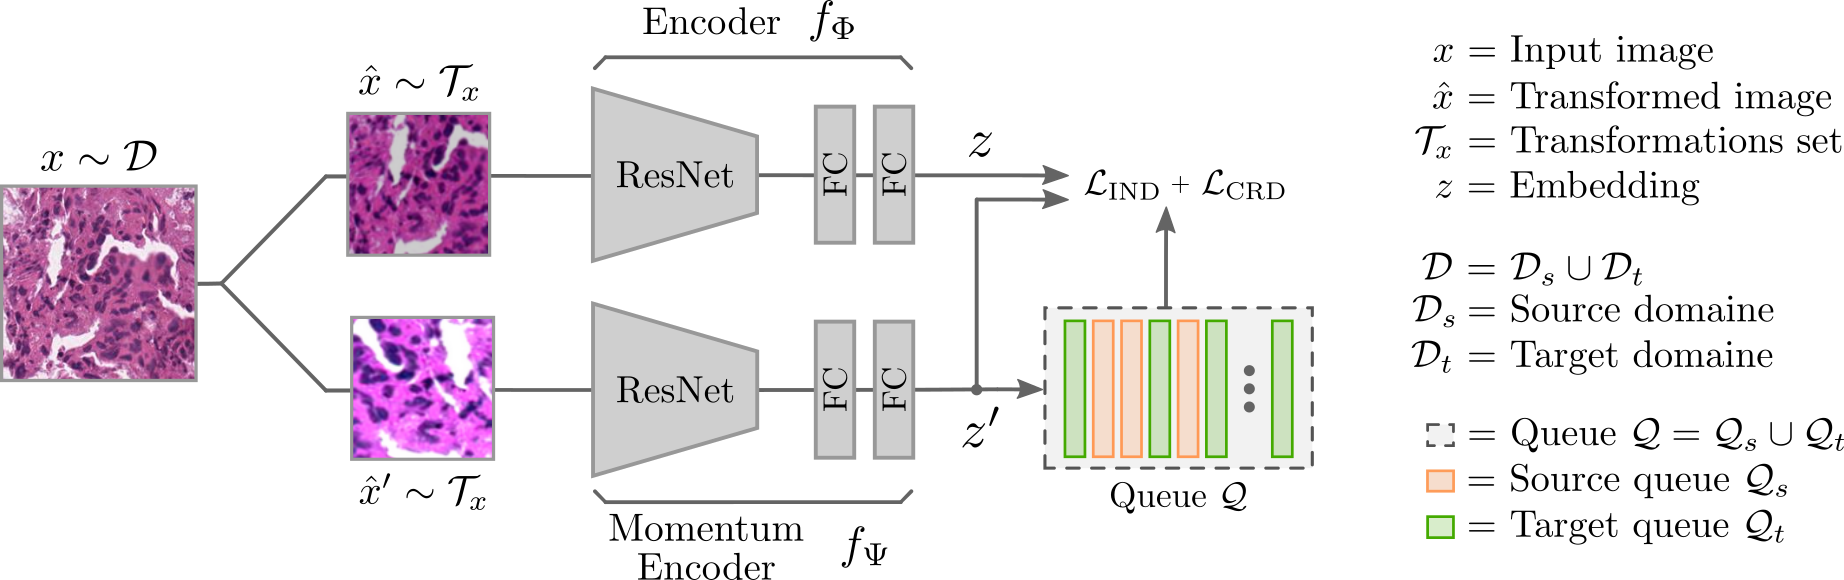
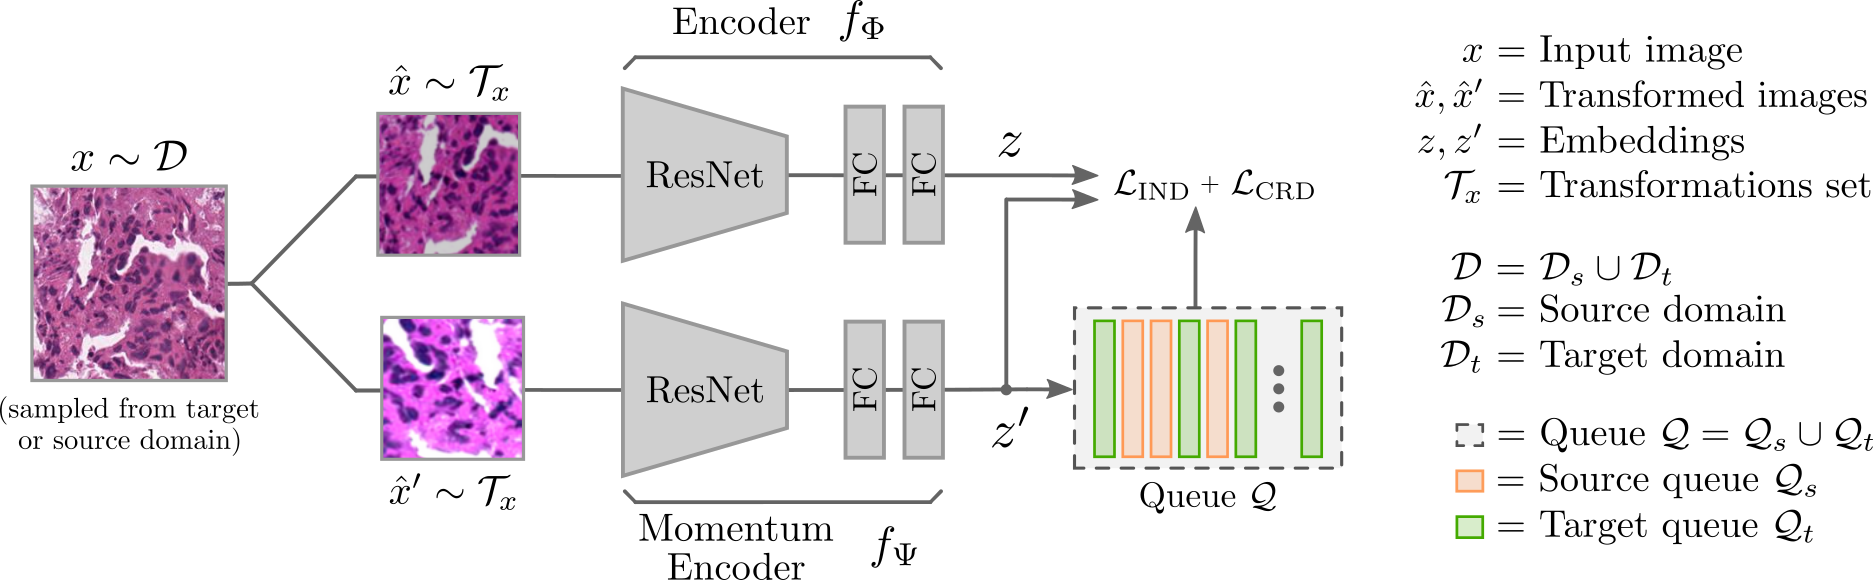
pipeline update

diff --git a/README.md b/README.md
@@ -1,32 +1,23 @@
 # Self-Rule to Adapt (SRA)
 
-Pytorch implementation of [Self-Rule tp Adapt (SRA)](TODO).
+Pytorch implementation of [Self-Rule tp Adapt (SRA)](SOON).
 
-
-Acquiring large amounts of labeled data is often not feasible in medical image analysis, 
-which can pose a problem when working with supervised deep learning. While asking expert 
-pathologists to annotate a subset of the cohort is feasible, annotating all of the images 
-is impractical, as it is highly time-consuming. Using available open-source data 
-for pre-training or transfer learning can be a way to overcome this issue.
-However, these pre-trained deep networks often fail to generalize to new test domains 
-that are not distributed identically to the training data due to variations in tissue 
-stainings, types, and textures. In this work, we take the steps towards addressing 
-these challenges. First, we evaluate and analyze multiple self-supervised learning 
-methods on two source datasets of colon cancer tissue images using only a fraction of 
-the available labels. Second, we propose Self-Rule to Adapt, a self-supervised learning 
-approach for domain adaptation that can effectively transfer the discriminative knowledge 
-obtained from a few labeled samples of given source domains to the target domain without 
-requiring any additional tissue annotation at the target site and further validate our 
-approach on our in-house clinical cohort. Unlike existing domain adaptation techniques that 
-rely only on the label-rich source domain's supervision, our method harnesses both domains' 
-cluster structures by capturing visual similarity with intra-domain and cross-domain 
-self-supervision. We show through extensive experiments that Self-Rule to Adapt outperforms 
-baselines across unsupervised and self-supervised domain adaptation settings. 
+Supervised learning is conditioned by the availability of labeled data, which are especially expensive to acquire in 
+the field of digital pathology. Making use of open-source data for pre-training or using domain adaptation can be a 
+way to overcome this issue. However, pre-trained networks often fail to generalize to new test domains that are not 
+distributed identically due to variations in tissue stainings, types, and textures. Additionally, current domain 
+adaptation methods mainly rely on fully-labeled source datasets. In this work, we propose Self-Rule to Adapt 
+(SRA) which takes advantage of self-supervised learning to perform domain adaptation and removes the necessity of a 
+fully-labeled source datasets. SRA can effectively transfer the discriminative knowledge obtained from a few 
+labeled source domain to a new target domain without requiring additional tissue annotations. Our method 
+harnesses both domains’ structures by capturing visual similarity with intra-domain and cross-domain self-supervision.
+We show that our proposed method outperforms baselines across diverse domain adaptation settings and further validate 
+our approach onour in-house clinical cohort.
 
 ![Segmentation result](figs/pipeline.png)
 
 ## Requirements
-The implementation extended from the implementation of MoCoV2 ([paper](https://arxiv.org/abs/2003.04297), 
+The implementation is an extension of the implementation of MoCoV2 ([paper](https://arxiv.org/abs/2003.04297), 
 [code](https://github.com/facebookresearch/moco)).
  
 Dataset:
@@ -47,14 +38,14 @@ drive ([link](https://drive.google.com/drive/folders/1_4qa2JJPqMvEq6FgoTnmzkvPVg
 To train the model:
 ```bash
 python train_sra.py --src_name kather19 --src_path /path/to/kather19 \
-                    --tar_name kather16 --tar_path /path/to/kather16 
+     --tar_name kather16 --tar_path /path/to/kather16 
 ```
 
 To evaluate (generate embedding) and plot t-SNE projection:
 ```bash
 python eval_sra.py --src_name kather19 --src_path /path/to/kather19 \
-                    --tar_name kather16 --tar_path /path/to/kather16 \
-                    --checkpoint /path/to/checkpoint.pth.tar
+     --tar_name kather16 --tar_path /path/to/kather16 \
+     --checkpoint /path/to/checkpoint.pth.tar
 ```
 
 ## Results
